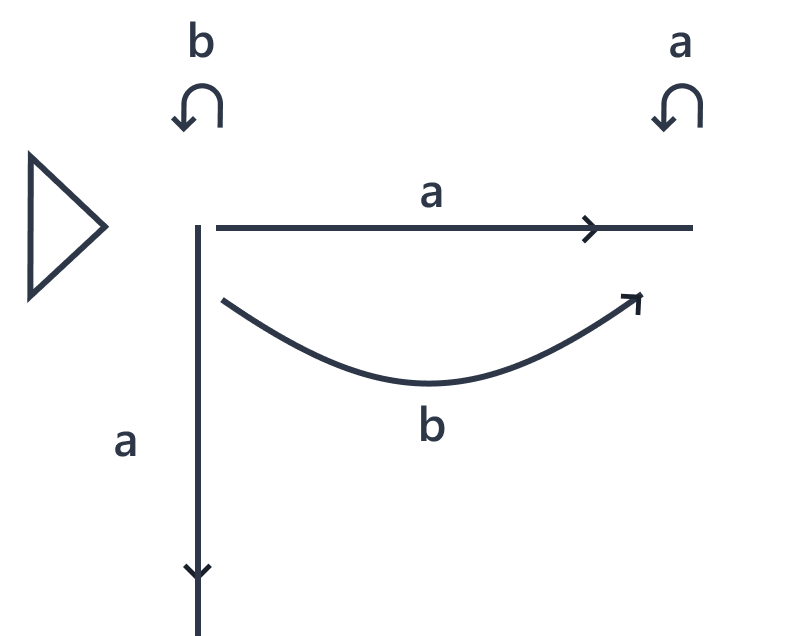
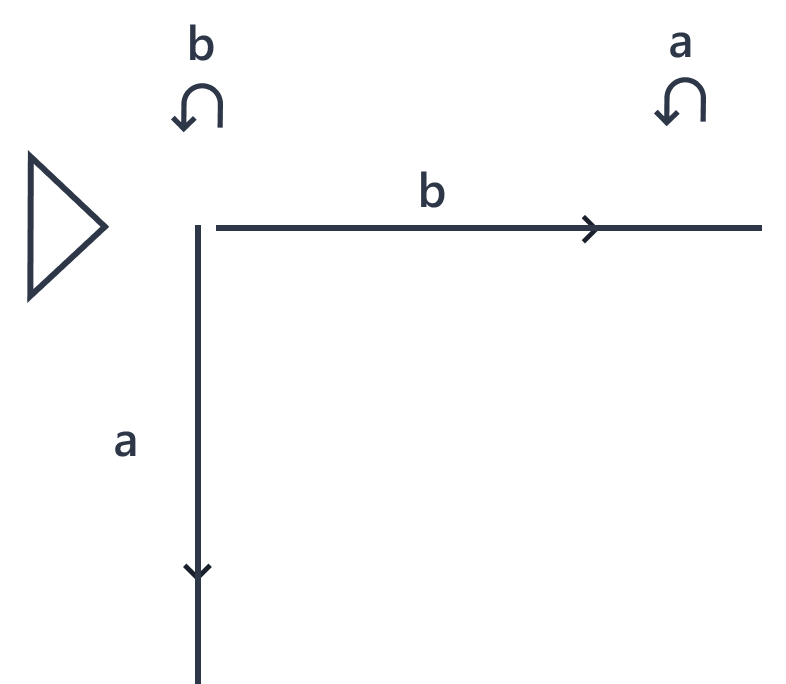
Here’s a simple commit message for that:
✔nfa need fix

diff --git a/src/main/java/project/autox/NFAController.java b/src/main/java/project/autox/NFAController.java
@@ -3,13 +3,18 @@ package project.autox;
 import javafx.animation.*;
 import javafx.fxml.FXML;
 import javafx.scene.control.Button;
+
 import javafx.scene.control.Label;
 import javafx.scene.control.TextField;
 import javafx.scene.image.ImageView;
 import javafx.scene.effect.DropShadow;
 import javafx.scene.paint.Color;
 import javafx.util.Duration;
-import javafx.scene.layout.FlowPane;
+import javafx.scene.layout.FlowPane; // Import FlowPane
+
+
+
+
 
 public class NFAController {
 
@@ -42,11 +47,14 @@ public class NFAController {
         applyShadowToImageView(q1);
         applyShadowToImageView(q2f);
 
+
         ValidateBTN.setOnAction(event -> {
             OutputTM.getChildren().clear();
             String input = inputTextField.getText(); // Get input from the text field
             if (isValid(input)) { // Check if the input is valid (contains only 'a' and 'b')
                 StringBuilder transitions = new StringBuilder(); // Use StringBuilder to collect transitions
+
+
 
                 for (int i = 0; i < input.length(); i++) {
                     char ch = input.charAt(i);
@@ -58,11 +66,17 @@ public class NFAController {
                             .append(" x ").append(ch)
                             .append(" → q").append(currentState)
                             .append("\n");
+
+
+
+
                 }
 
-                if (currentState == 2) { // Check if the final state is q2 (accepting state)
+                if (currentState == 2) { // Check if the final state is q10 (accepting state)
                     transitions.append("ACCEPTED"); // Add ACCEPTED to the output
-                } else {
+                }
+
+                 else {
                     transitions.append("REJECTED"); // Add REJECTED to the output
                 }
 
@@ -73,13 +87,10 @@ public class NFAController {
             }
         });
 
+
+
         SimulateBTN.setOnAction(event -> {
-            String input = inputTextField.getText(); // Get the input from the text field
-            if (isValid(input)) { // Check if the input is valid
-                animateInput(input); // Proceed with the animation if input is valid
-            } else {
-                System.out.println("Invalid input. Only 'a' and 'b' are allowed."); // Notify about invalid input
-            }
+            animateInput(inputTextField.getText());
         });
 
         ClearBTN.setOnAction(event -> {
@@ -223,78 +234,26 @@ public class NFAController {
         pause.play();
     }
 
-
-    public void simulateTransition(String input) {
-        // Reset the current state to the initial state (q0)
-        currentState = 0;
-
-        // Validate the input first
-        if (!validateInput(input)) {
-            System.out.println("Invalid input: Input can only contain 'a' and 'b'");
-            return; // Stop the simulation if input is invalid
-        }
-
-        // Process each character in the input string
-        for (char ch : input.toCharArray()) {
-            if (!transition(ch)) {
-                System.out.println("Transition unsuccessful for character: " + ch);
-                return; // Stop the simulation if transition fails
-            }
-        }
-
-        // Check if the final state is accepting or not
-        if (currentState == 2) {
-            System.out.println("Input accepted");
-        } else {
-            System.out.println("Input not accepted");
-        }
-    }
-
     public boolean transition(char ch) {
         switch (currentState) {
             case 0: // q0
-                switch (ch) {
-                    case 'a':
-                        currentState = 2; // Transition to q2
-                        animateSequentially(q0, q2f); // Animate q0 first, then q2
-                        break;
-                    case 'b':
-                        animateImageView(q0); // Stay in q0
-                        break;
-                    default:
-                        return false; // Invalid character (shouldn't reach here due to validation)
+
+                if (ch == 'b') {
+
+                    currentState = 1; // Transition to q1
+                    animateSequentially(q0, q2f); // Animate q0 first, then q1
                 }
                 break;
-            case 1: // q1 (non-accepting state)
-                switch (ch) {
-                    case 'a':
-                        currentState = 1; // Stay in q1
-                        animateImageView(q1);
-                        break;
-                    case 'b':
-                        currentState = 0; // Transition back to q0
-                        animateImageView(q0);
-                        break;
-                    default:
-                        return false; // Invalid character (shouldn't reach here due to validation)
-                }
+            case 1:
                 break;
-            case 2: // q2 (accepting state)
-                switch (ch) {
-                    case 'a':
-                        currentState = 2; // Stay in q2
-                        animateImageView(q2f);
-                        break;
-                    case 'b':
-                        currentState = 2; // Stay in q2
-                        animateImageView(q2f);
-                        break;
-                    default:
-                        return false; // Invalid character (shouldn't reach here due to validation)
+            case 2: // q2 (Trap state)
+                if (ch == 'a') {
+                    currentState = 2; // Trap state
+                    animateImageView(q2f);
                 }
                 break;
             default:
-                return false; // Invalid state
+                return false; // Transition was unsuccessful
         }
 
         // Stop animation if still in q0
@@ -304,7 +263,6 @@ public class NFAController {
 
         return true; // Transition was successful
     }
-
 
 
     private void addTransitionToOutput(String transition) {
@@ -367,18 +325,13 @@ public class NFAController {
 
 
     private boolean validateInput(String input) {
-        if (input.isEmpty() || input.charAt(0) == 'a') {
-            return false; // Return false if the first character is 'a'
-        }
-
-        // Continue checking the rest of the characters
-        for (char c : input.toCharArray()) {
-            if (c != 'a' && c != 'b') {
-                return false; // Return false if any other character is not 'a' or 'b'
+        currentState = 0; // Reset to start state (q0) for validation
+        for (char ch : input.toCharArray()) {
+            if (!transitionForValidation(ch)) {
+                return false; // Reject if stuck in q0
             }
         }
-
-        return true; // Return true if the input is valid and does not start with 'a'
+        return currentState == 2; // Accept only if DFA ends in final state q2f
     }
 
 
